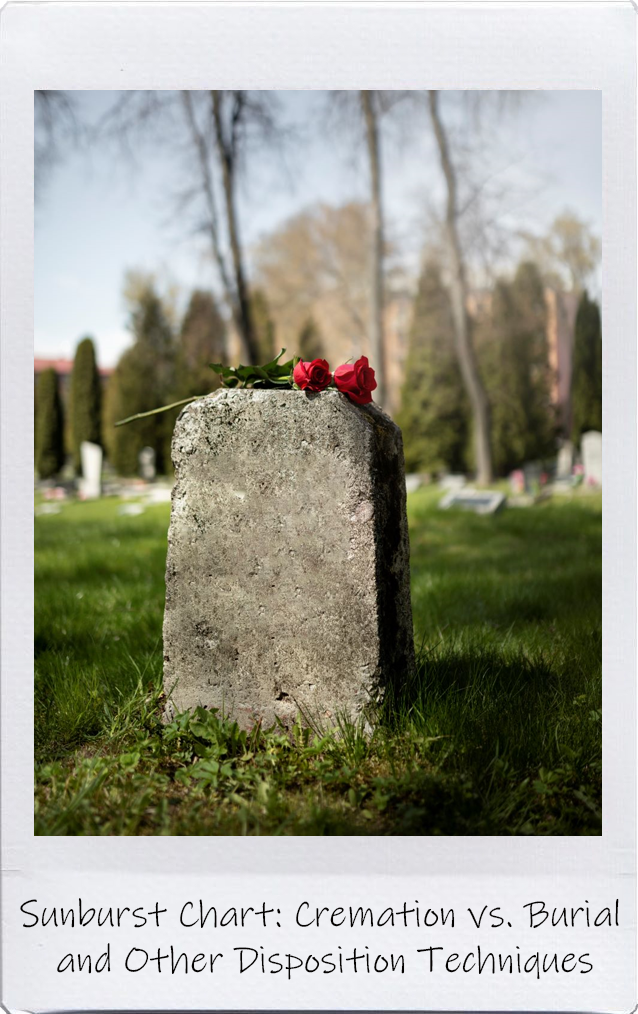
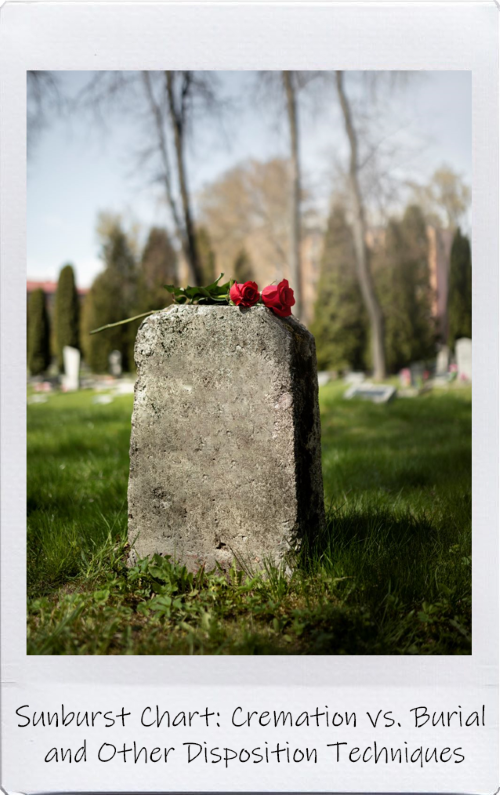
Resized images, embedded sunburst video demo

diff --git a/projects.html b/projects.html
@@ -6,135 +6,71 @@
 <link rel="icon" type="image/x-icon" href="./favicon.ico">
 <link href="style.css" rel="stylesheet" type="text/css">
 <style type="text/css">
-body,td,th {
-	color: #24312d;
-	font-family: Gotham, "Helvetica Neue", Helvetica, Arial, sans-serif;
+body, td, th {
+    color: #24312d;
+    font-family: Gotham, "Helvetica Neue", Helvetica, Arial, sans-serif;
 }
 body {
-	background-color: #F7EDE2;
+    background-color: #F7EDE2;
 }
 </style>
 </head>
-	
-		<body>
-			<header class="header">
-				<img src="images/abigaillogo.svg" id="logo" alt="A hand drawn daisy with the name 'abigail' written underneath in all lowercase letters."/>
-            </header>
-			<nav>
-				<ul class="flex flex-row gap-5 ">
-				  <li class="nav-item"><a href="/">home</a></li>
-				  <li class="nav-item"><a href="projects.html">projects</a></li>
-				  <li class="nav-item"><a href="resume.html">résumé</a></li>
-				  <li class="nav-item"><a href="https://github.com/AbigailHyde" target="_blank">github</a></li>
-               </ul>
-			</nav>
-			
-         
 
-        <main>
-			
-		<!-- MAIN (Center website) -->
-<div class="main">
-
-
-<!-- Portfolio Gallery Grid -->
-	<div class="grid">
-<div class="row">
-  <div class="column">
-    <div class="content">
-      <img src="images/projectpolaroids/chatpolaroid.png" alt="Mountains" style="width:100%" class="polaroid">
+<body>
+<header class="header"> <img src="images/abigaillogo.svg" id="logo" alt="A hand drawn daisy with the name 'abigail' written underneath in all lowercase letters."/> </header>
+<nav>
+  <ul class="flex flex-row gap-5 ">
+    <li class="nav-item"><a href="/">home</a></li>
+    <li class="nav-item"><a href="projects.html">projects</a></li>
+    <li class="nav-item"><a href="resume.html">résumé</a></li>
+    <li class="nav-item"><a href="https://github.com/AbigailHyde" target="_blank">github</a></li>
+  </ul>
+</nav>
+<main> 
+  
+  <!-- MAIN (Center website) -->
+  <div class="main"> 
+    
+    <!-- Portfolio Gallery Grid -->
+    <div class="grid">
+      <div class="row">
+        <div class="column">
+          <div class="content"> <a href="https://www.familysearch.org/en/blog/new-familysearch-chat" target="_blank"><img src="images/projectpolaroids/chatpolaroid.png" alt="Mountains" style="width:100%" class="polaroid"></a> </div>
+        </div>
+        <div class="column">
+          <div class="content"> <a href="templestimeline.html" target="_blank"><img src="images/projectpolaroids/templestimelinepolaroid.png" alt="Lights" style="width:100%" class="polaroid"></a> </div>
+        </div>
+        <div class="column">
+          <div class="content"> <a href="byuhtimeline.html" target="_blank"><img src="images/projectpolaroids/byuhtimelinepolaroid.png" alt="Nature" style="width:100%" class="polaroid"></a> </div>
+        </div>
+        <div class="column">
+          <div class="content"> <a href="speakeasy.html"><img src="images/projectpolaroids/speakeasypolaroid.png" alt="Mountains" style="width:100%" class="polaroid"></a> </div>
+        </div>
+      </div>
       
-    </div>
-  </div>
-  <div class="column">
-    <div class="content">
-      <img src="images/projectpolaroids/templestimelinepolaroid.png" alt="Lights" style="width:100%" class="polaroid">
-    </div>
-  </div>
-  <div class="column">
-    <div class="content">
-      <img src="images/projectpolaroids/byuhtimelinepolaroid.png" alt="Nature" style="width:100%" class="polaroid">
-    </div>
-  </div>
-  <div class="column">
-    <div class="content">
-      <img src="images/projectpolaroids/speakeasypolaroid.png" alt="Mountains" style="width:100%" class="polaroid">
-    </div>
-  </div>
-</div>
-
-<!-- Row 2 -->
-	
-<div class="row">
-  <div class="column">
-    <div class="content">
-      <img src="images/projectpolaroids/deathpolaroid.png" alt="Mountains" style="width:100%" class="polaroid">
+      <!-- Row 2 -->
       
+      <div class="row">
+        <div class="column">
+          <div class="content"> <a href="sunburst.html"><img src="images/projectpolaroids/deathpolaroid.png" alt="Mountains" style="width:100%" class="polaroid"></a> </div>
+        </div>
+        <div class="column">
+          <div class="content"> <a href="./henriette.html" target="_blank"><img src="images/projectpolaroids/henriettepolaroid.png" alt="Lights" style="width:100%" class="polaroid"></a> </div>
+        </div>
+        <div class="column">
+          <div class="content"> <img src="images/projectpolaroids/henriettepolaroid.png" alt="Nature" style="width:100%" class="polaroid"> </div>
+        </div>
+        <div class="column">
+          <div class="content"> <img src="images/projectpolaroids/henriettepolaroid.png" alt="Mountains" style="width:100%" class="polaroid"> </div>
+        </div>
+      </div>
+      
+      <!-- END MAIN --> 
     </div>
   </div>
-  <div class="column">
-    <div class="content">
-      <img src="images/projectpolaroids/henriettepolaroid.png" alt="Lights" style="width:100%" class="polaroid">
-    </div>
-  </div>
-  <div class="column">
-    <div class="content">
-      <img src="images/projectpolaroids/henriettepolaroid.png" alt="Nature" style="width:100%" class="polaroid">
-
-    </div>
-  </div>
-  <div class="column">
-    <div class="content">
-      <img src="images/projectpolaroids/henriettepolaroid.png" alt="Mountains" style="width:100%" class="polaroid">
-    </div>
-  </div>
-</div>
-
-<!-- END MAIN -->
-</div>
-	</div>
-
-            <h1>Temples Timeline</h1>
-            <p>
-                The Temples Timeline app was featured in the October 2021 edition of <a href="https://byustudies.byu.edu/article/visualizing-temples-through-time/" >BYU Studies Quarterly</a>. 
-                The app is available on the <a href="https://play.google.com/store/apps/details?id=edu.byuh.cis.templevis" class="text-green">Google Play Store</a> and <a href="https://apps.apple.com/app/id1529179099" class="text-green">Apple App Store</a>.
-                Temples Timeline displays a chronology of temples built by the Church of Jesus Christ of Latter-day Saints from 1836 to the present day in a spiral layout, suitable for handheld touchscreen devices.
-                I worked on this with Tsz Chin Lam, Litian Zhang, Grace Xie, and our professor Dr. Geoff Draper.
-            </p>   
-
-            <h1>BYUH Timeline</h1>
-            <p>
-                The BYUH Timeline app is a work in progress. It makes use of a similar spiral layout to the Temples Timeline app, this time displaying a history of BYU-Hawaii and the surrounding community of Laie. The timeline is available <a href="https://about.byuh.edu/brief-history">here</a>. The first half of 2021 was spent procuring images for the app, the majority of them coming from the BYU-Hawaii archives.
-                I worked on this with Tsz Chin Lam, Litian Zhang, and our professor Dr. Geoff Draper.
-            </p>  
-            
-            <h1>Speakeasy</h1>
-            <p>
-                Speakeasy was written for my CS 401 Web Apps Development class at BYU-Hawaii in Fall 2022. Inspired by the now defunct Lang-8 website, Speakeasy allows users to learn language and culture in a fun, social way.
-            </p>  
-            
-            <h1>Henriette</h1>
-            <p>
-                "Henriette" was my final project for CS 490R at BYU-Hawaii in Fall 2021. "Henriette" tells the story of a mother hen who has lost her chicks. 
-                I developed the game over a one month span using Unity. It can be played <a href="./chickenweb/index.html" target="_blank">here</a>, and source code is available on <a href="https://github.com/AbigailHyde/henriette" target="_blank">GitHub</a> along with a downloadable build.
-            </p>   
-
-            <h1>"Sunburst Chart: Cremation vs. Burial and Other Disposition Techniques"</h1>
-            <p>
-                "Sunburst Chart: Cremation vs. Burial and Other Disposition Techniques" was my final project for CS 490R at BYU-Hawaii in Winter 2022. This visualization displays cremation statistics for five countries, making it easy to compare trends over time.
-                The dataset and code can be found <a href="https://github.com/AbigailHyde/final_project" target="_blank">here</a>.
-                This program was written in Java, and made extensive use of JDBC.
-            </p>   
-
-            <h1>abigailhyde.com</h1>
-            <p>
-                This site was developed using Dreamweaver and is hosted on GitHub Pages. 
-            </p>  
-            
-        </main>
-
+</main>
 <footer>
-<p style="text-align:center">Made with &lt;3 by Abigail Hyde, &#169;2023</p>
-			</footer>
+  <p style="text-align:center">Made with &lt;3 by Abigail Hyde, &#169;2023</p>
+</footer>
 </body>
 </html>

diff --git a/sunburst.html b/sunburst.html
@@ -2,7 +2,7 @@
 <html>
 <head>
 <meta charset="utf-8">
-<title>home | abigail hyde</title>
+<title>sunburst chart | abigail hyde</title>
 <link rel="icon" type="image/x-icon" href="./favicon.ico">
 <link href="style.css" rel="stylesheet" type="text/css">
 <style type="text/css">
@@ -26,11 +26,20 @@ body {
     <li class="nav-item"><a href="https://github.com/AbigailHyde" target="_blank">github</a></li>
   </ul>
 </nav>
-<div> <img src="images/wide.png" id="coverphoto" alt="A photo of a young woman, Abigail, smiling in front of a green bush. The phrase 'Hi! My name is Abigail Hyde!' is written across the image in Abigail's handwriting."/> </div>
-<a>
-<h2 style="text-align:center">Nice to meet you, and aloha!</h2>
-<p id="about-text" style="text-align:center"> My name is Abigail Hyde. Raised in rural Ohio, I now live in beautiful Hau`ula, Hawaii. I graduated from Brigham Young University - Hawaii in 2022 with a degree in Computer Science. I currently work as a Technical Analyst for BYUH's IT Department. Before coming to work at BYUH, I spent several months as a remote web development intern for FamilySearch. In my spare time, I enjoy reading and crocheting. I am also an amateur radio operator (KE8LGD) - catch me on the <a href="https://www.hmasn.com/">Hawaii-Mainland Allstar Net</a>!</p>
-</a>
+<main> 
+  
+  <!-- MAIN (Center website) -->
+  <div class="main">
+    <h1>"Sunburst Chart: Cremation vs. Burial and Other Disposition Techniques"</h1>
+    <p> "Sunburst Chart: Cremation vs. Burial and Other Disposition Techniques" was my final project for CS 490R at BYU-Hawaii in Winter 2022. This visualization displays cremation statistics for five countries, making it easy to compare trends over time.
+      The dataset and code can be found <a href="https://github.com/AbigailHyde/final_project" target="_blank">here</a>.
+      This program was written in Java, and made extensive use of JDBC. </p>
+	  <div class="embedded-video">
+		  <iframe src="https://www.youtube.com/embed/1s1l5bT2xV4?si=s012zk1vCzrUh337&amp;start=37" title="YouTube video player" frameborder="0" allow="accelerometer; autoplay; clipboard-write; encrypted-media; gyroscope; picture-in-picture; web-share" allowfullscreen></iframe>
+	  </div>
+	  
+  </div>
+</main>
 <footer>
   <p style="text-align:center">Made with &lt;3 by Abigail Hyde, &#169;2023</p>
 </footer>

diff --git a/templestimeline.html b/templestimeline.html
@@ -2,7 +2,7 @@
 <html>
 <head>
 <meta charset="utf-8">
-<title>home | abigail hyde</title>
+<title>temples timeline | abigail hyde</title>
 <link rel="icon" type="image/x-icon" href="./favicon.ico">
 <link href="style.css" rel="stylesheet" type="text/css">
 <style type="text/css">
@@ -26,11 +26,17 @@ body {
     <li class="nav-item"><a href="https://github.com/AbigailHyde" target="_blank">github</a></li>
   </ul>
 </nav>
-<div> <img src="images/wide.png" id="coverphoto" alt="A photo of a young woman, Abigail, smiling in front of a green bush. The phrase 'Hi! My name is Abigail Hyde!' is written across the image in Abigail's handwriting."/> </div>
-<a>
-<h2 style="text-align:center">Nice to meet you, and aloha!</h2>
-<p id="about-text" style="text-align:center"> My name is Abigail Hyde. Raised in rural Ohio, I now live in beautiful Hau`ula, Hawaii. I graduated from Brigham Young University - Hawaii in 2022 with a degree in Computer Science. I currently work as a Technical Analyst for BYUH's IT Department. Before coming to work at BYUH, I spent several months as a remote web development intern for FamilySearch. In my spare time, I enjoy reading and crocheting. I am also an amateur radio operator (KE8LGD) - catch me on the <a href="https://www.hmasn.com/">Hawaii-Mainland Allstar Net</a>!</p>
-</a>
+<main> 
+  
+  <!-- MAIN (Center website) -->
+  <div class="main">
+    <h1>Temples Timeline</h1>
+    <p> The Temples Timeline app was featured in the October 2021 edition of <a href="https://byustudies.byu.edu/article/visualizing-temples-through-time/" >BYU Studies Quarterly</a>. 
+      The app is available on the <a href="https://play.google.com/store/apps/details?id=edu.byuh.cis.templevis" class="text-green">Google Play Store</a> and <a href="https://apps.apple.com/app/id1529179099" class="text-green">Apple App Store</a>.
+      Temples Timeline displays a chronology of temples built by the Church of Jesus Christ of Latter-day Saints from 1836 to the present day in a spiral layout, suitable for handheld touchscreen devices.
+      I worked on this with Tsz Chin Lam, Litian Zhang, Grace Xie, and our professor Dr. Geoff Draper. </p>
+  </div>
+</main>
 <footer>
   <p style="text-align:center">Made with &lt;3 by Abigail Hyde, &#169;2023</p>
 </footer>

diff --git a/byuhtimeline.html b/byuhtimeline.html
@@ -2,7 +2,7 @@
 <html>
 <head>
 <meta charset="utf-8">
-<title>home | abigail hyde</title>
+<title>BYUH timeline | abigail hyde</title>
 <link rel="icon" type="image/x-icon" href="./favicon.ico">
 <link href="style.css" rel="stylesheet" type="text/css">
 <style type="text/css">
@@ -26,11 +26,15 @@ body {
     <li class="nav-item"><a href="https://github.com/AbigailHyde" target="_blank">github</a></li>
   </ul>
 </nav>
-<div> <img src="images/wide.png" id="coverphoto" alt="A photo of a young woman, Abigail, smiling in front of a green bush. The phrase 'Hi! My name is Abigail Hyde!' is written across the image in Abigail's handwriting."/> </div>
-<a>
-<h2 style="text-align:center">Nice to meet you, and aloha!</h2>
-<p id="about-text" style="text-align:center"> My name is Abigail Hyde. Raised in rural Ohio, I now live in beautiful Hau`ula, Hawaii. I graduated from Brigham Young University - Hawaii in 2022 with a degree in Computer Science. I currently work as a Technical Analyst for BYUH's IT Department. Before coming to work at BYUH, I spent several months as a remote web development intern for FamilySearch. In my spare time, I enjoy reading and crocheting. I am also an amateur radio operator (KE8LGD) - catch me on the <a href="https://www.hmasn.com/">Hawaii-Mainland Allstar Net</a>!</p>
-</a>
+<main> 
+  
+  <!-- MAIN (Center website) -->
+  <div class="main">
+    <h1>BYUH Timeline</h1>
+    <p> The BYUH Timeline app is a work in progress. It makes use of a similar spiral layout to the Temples Timeline app, this time displaying a history of BYU-Hawaii and the surrounding community of Laie. The timeline is available <a href="https://about.byuh.edu/brief-history">here</a>. The first half of 2021 was spent procuring images for the app, the majority of them coming from the BYU-Hawaii archives.
+      I worked on this with Tsz Chin Lam, Litian Zhang, and our professor Dr. Geoff Draper. </p>
+  </div>
+</main>
 <footer>
   <p style="text-align:center">Made with &lt;3 by Abigail Hyde, &#169;2023</p>
 </footer>

diff --git a/henriette.html b/henriette.html
@@ -2,7 +2,7 @@
 <html>
 <head>
 <meta charset="utf-8">
-<title>home | abigail hyde</title>
+<title>henriette | abigail hyde</title>
 <link rel="icon" type="image/x-icon" href="./favicon.ico">
 <link href="style.css" rel="stylesheet" type="text/css">
 <style type="text/css">
@@ -26,11 +26,15 @@ body {
     <li class="nav-item"><a href="https://github.com/AbigailHyde" target="_blank">github</a></li>
   </ul>
 </nav>
-<div> <img src="images/wide.png" id="coverphoto" alt="A photo of a young woman, Abigail, smiling in front of a green bush. The phrase 'Hi! My name is Abigail Hyde!' is written across the image in Abigail's handwriting."/> </div>
-<a>
-<h2 style="text-align:center">Nice to meet you, and aloha!</h2>
-<p id="about-text" style="text-align:center"> My name is Abigail Hyde. Raised in rural Ohio, I now live in beautiful Hau`ula, Hawaii. I graduated from Brigham Young University - Hawaii in 2022 with a degree in Computer Science. I currently work as a Technical Analyst for BYUH's IT Department. Before coming to work at BYUH, I spent several months as a remote web development intern for FamilySearch. In my spare time, I enjoy reading and crocheting. I am also an amateur radio operator (KE8LGD) - catch me on the <a href="https://www.hmasn.com/">Hawaii-Mainland Allstar Net</a>!</p>
-</a>
+<main> 
+  
+  <!-- MAIN (Center website) -->
+  <div class="main">
+    <h1>Henriette</h1>
+    <p> "Henriette" was my final project for CS 490R at BYU-Hawaii in Fall 2021. "Henriette" tells the story of a mother hen who has lost her chicks. 
+      I developed the game over a one month span using Unity. It can be played <a href="./chickenweb/index.html" target="_blank">here</a>, and source code is available on <a href="https://github.com/AbigailHyde/henriette" target="_blank">GitHub</a> along with a downloadable build. </p>
+  </div>
+</main>
 <footer>
   <p style="text-align:center">Made with &lt;3 by Abigail Hyde, &#169;2023</p>
 </footer>

diff --git a/speakeasy.html b/speakeasy.html
@@ -2,7 +2,7 @@
 <html>
 <head>
 <meta charset="utf-8">
-<title>home | abigail hyde</title>
+<title>speakeasy | abigail hyde</title>
 <link rel="icon" type="image/x-icon" href="./favicon.ico">
 <link href="style.css" rel="stylesheet" type="text/css">
 <style type="text/css">
@@ -26,11 +26,14 @@ body {
     <li class="nav-item"><a href="https://github.com/AbigailHyde" target="_blank">github</a></li>
   </ul>
 </nav>
-<div> <img src="images/wide.png" id="coverphoto" alt="A photo of a young woman, Abigail, smiling in front of a green bush. The phrase 'Hi! My name is Abigail Hyde!' is written across the image in Abigail's handwriting."/> </div>
-<a>
-<h2 style="text-align:center">Nice to meet you, and aloha!</h2>
-<p id="about-text" style="text-align:center"> My name is Abigail Hyde. Raised in rural Ohio, I now live in beautiful Hau`ula, Hawaii. I graduated from Brigham Young University - Hawaii in 2022 with a degree in Computer Science. I currently work as a Technical Analyst for BYUH's IT Department. Before coming to work at BYUH, I spent several months as a remote web development intern for FamilySearch. In my spare time, I enjoy reading and crocheting. I am also an amateur radio operator (KE8LGD) - catch me on the <a href="https://www.hmasn.com/">Hawaii-Mainland Allstar Net</a>!</p>
-</a>
+<main> 
+  
+  <!-- MAIN (Center website) -->
+  <div class="main">
+    <h1>Speakeasy</h1>
+    <p> Speakeasy was written for my CS 401 Web Apps Development class at BYU-Hawaii in Fall 2022. Inspired by the now defunct Lang-8 website, Speakeasy allows users to learn language and culture in a fun, social way. </p>
+  </div>
+</main>
 <footer>
   <p style="text-align:center">Made with &lt;3 by Abigail Hyde, &#169;2023</p>
 </footer>

diff --git a/chickenweb/index.html b/chickenweb/index.html
@@ -6,7 +6,7 @@
     <title>Unity WebGL Player | henriette</title>
   </head>
   <body style="text-align: center">
-    <canvas id="unity-canvas" width=1024 height=768 style="width: 1024px; height: 768px; background: #231F20"></canvas>
+    <canvas id="unity-canvas" width="1024" height="768" style="width: 1024px; height: 768px; background: #231F20"></canvas>
     <script src="Build/chickenweb.loader.js"></script>
     <script>
       createUnityInstance(document.querySelector("#unity-canvas"), {
@@ -14,7 +14,7 @@
         frameworkUrl: "Build/chickenweb.framework.js",
         codeUrl: "Build/chickenweb.wasm",
         streamingAssetsUrl: "StreamingAssets",
-        companyName: "dev.abigailsmith",
+        companyName: "com.abigailhyde",
         productName: "henriette",
         productVersion: "0.1",
         // matchWebGLToCanvasSize: false, // Uncomment this to separately control WebGL canvas render size and DOM element size.

diff --git a/style.css b/style.css
@@ -145,4 +145,19 @@ body p {
 	box-shadow: 0px 5px 10px 0px rgba(0, 0, 0, 0.5);
 }
 
+.polaroid:hover {
+	box-shadow: 5px 10px 15px 5px rgba(0, 0, 0, 0.5);
+}
 
+.embedded-video {
+	position: relative;
+padding-bottom: 56.25%; 
+}
+
+iframe{
+position: absolute;
+top: 0;
+left: 0;
+width: 100%;
+height: 100%;
+}
